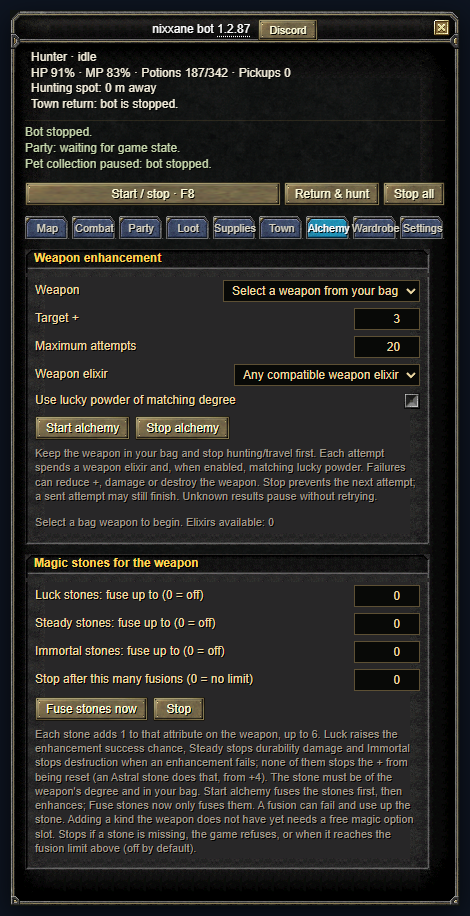
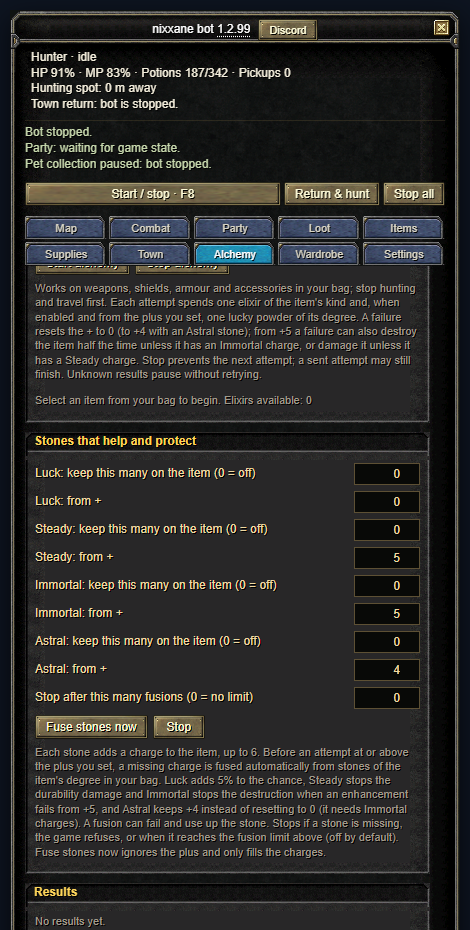
1.2.99 patch notes, alchemy guide

diff --git a/guide.html b/guide.html
@@ -111,11 +111,11 @@
     <p>Under <strong>Supplies → Automatic potion use</strong> (the potions screenshot above): tick <strong>Use recovery kits on my pets</strong> to heal an attack or pickup pet below the HP you set.</p>
     <h3>Reconnect</h3>
     <p>Always on. After a server restart or a dropped connection the bot waits for the game, reconnects, and resumes hunting if it was hunting. It never types or stores your password; if the login is gone it tells you and waits for you to log in. Logging out yourself cancels it.</p>
-    <h3>Weapon alchemy</h3>
-    <p>The <strong>Alchemy</strong> tab enhances one weapon from your bag with elixirs. Failed attempts can lower, damage or destroy the weapon, so set a sensible <strong>Target +</strong> and attempt limit and stop hunting first.</p>
-    <img class="shot" src="guide/09-alchemy.png" width="470" alt="The Alchemy tab: weapon choice, target plus, attempts, elixir choice and the start and stop buttons.">
-    <p>Under <strong>Magic stones for the weapon</strong> choose how many <strong>Luck</strong>, <strong>Steady</strong> and <strong>Immortal</strong> stones the weapon should have (0 to 6 each). Luck raises the enhancement success chance, Steady stops durability damage and Immortal stops destruction when an enhancement fails. The stones must be of the weapon's degree and in your bag. <strong>Fuse stones now</strong> only fuses them; <strong>Start alchemy</strong> fuses them first and then enhances.</p>
-    <img class="shot" src="guide/09b-alchemy-stones.png" width="470" alt="The Alchemy tab, Magic stones for the weapon: Luck, Steady and Immortal counts and the Fuse stones now button.">
+    <h3>Item alchemy</h3>
+    <p>The <strong>Alchemy</strong> tab enhances one item from your bag with elixirs: a weapon, shield, armour piece or accessory, each with its own kind of elixir. Failed attempts can lower, damage or destroy the item, so set a sensible <strong>Target +</strong> and attempt limit and stop hunting first. Under the settings the tab shows the chance of the next attempt and how many elixirs you should expect to need, taken from the server's own data, and a <strong>Results</strong> panel keeps count and a log.</p>
+    <img class="shot" src="guide/09-alchemy.png" width="470" alt="The Alchemy tab: item choice, target plus, attempts, elixir choice, lucky powder from a plus, and the start and stop buttons.">
+    <p>Under <strong>Stones that help and protect</strong> choose how many <strong>Luck</strong>, <strong>Steady</strong>, <strong>Immortal</strong> and <strong>Astral</strong> charges the item should keep (0 to 6 each) and the plus each is used <strong>from</strong>. Luck raises the enhancement success chance, Steady stops durability damage, Immortal stops destruction when an enhancement fails from +5, and Astral keeps +4 instead of resetting to 0. The stones must be of the item's degree and in your bag; a missing charge is fused automatically before an attempt at or above its plus. <strong>Fuse stones now</strong> ignores the plus and only fills the charges.</p>
+    <img class="shot" src="guide/09b-alchemy-stones.png" width="470" alt="The Alchemy tab, Stones that help and protect: Luck, Steady, Immortal and Astral counts, the plus each is used from, and the Fuse stones now button.">
 
     <h2 id="problems">6. If something goes wrong</h2>
     <p>The status line at the top of the panel says what the bot is waiting for. The common messages:</p>

diff --git a/index.html b/index.html
@@ -26,6 +26,15 @@
       <h2 id="patch-notes-title">Patch notes</h2>
       <p class="notes-intro">Install the latest script, then reload the game. Reporting-service fixes apply automatically.</p>
       <article class="release">
+        <h3><a href="https://github.com/nixxane/opensro-bot-lean/commit/e218dd77c0d58cdb6ecd4cb1f6f3db51c2b3ea91">1.2.99</a> · Alchemy tab: every gear kind, rules from +N, odds and a results log</h3>
+        <ul>
+          <li>The Alchemy tab now enhances weapons, shields, armour and accessories, each with its own elixir (the A and B elixirs of its kind). Before, only weapons worked.</li>
+          <li>Rules from a plus: use lucky powder from +N, and Luck, Steady, Immortal and Astral stones from +N. A missing charge is fused automatically from stones of the item's degree before the attempt, so you do not have to fuse them by hand. The defaults follow the server: Steady and Immortal from +5, where a failure can start to destroy or damage the item.</li>
+          <li>The tab shows the real odds taken from the server's data: the chance of the next attempt (with powder and Luck counted like the server does) and how many elixirs you should expect to need to reach your target, and the chance of getting there without a single failure.</li>
+          <li>A results panel with attempts, successes, failures, destroyed items, the highest plus reached, the success rate, what was used, and a timestamped log of each attempt and fusion.</li>
+        </ul>
+      </article>
+      <article class="release">
         <h3><a href="https://github.com/nixxane/opensro-bot-lean/commit/a97b0f86c37ccf7d70f36f3e2e168b146e02c9bf">1.2.98</a> · Auto skill upgrades can cover every learned skill</h3>
         <ul>
           <li>New dropdown Skills to upgrade under Settings → Auto mastery and skills: Only skills in my rotations, buffs and imbue (the default, as before) or All skills I have learned. With All, the skills you use are raised first and then every other skill line you already have.</li>
